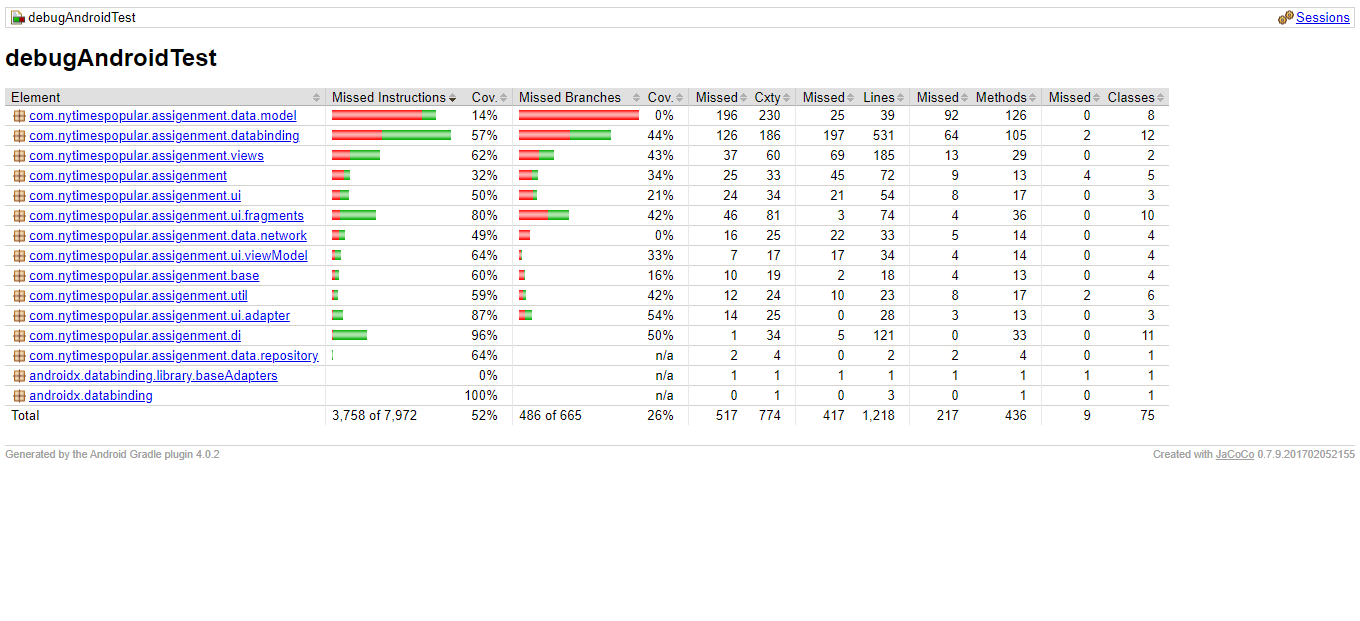
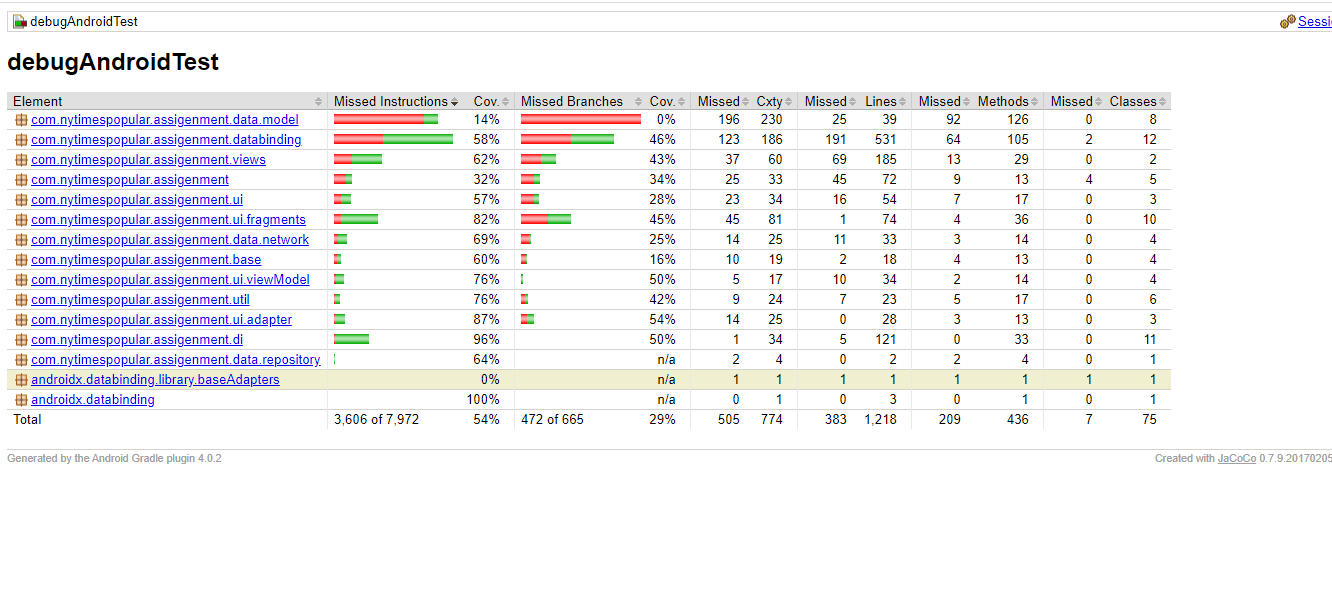
Commit: add one more test cases

Changed region(s): [[0.0, 0.0, 1.0, 0.7866], [0.8311, 0.6958, 1.0, 0.7866]]

diff --git a/app/src/androidTest/java/com/nytimespopular/assigenment/testutils/DataBindingIdlingResource.kt b/app/src/androidTest/java/com/nytimespopular/assigenment/testutils/DataBindingIdlingResource.kt
@@ -1,0 +1,136 @@
+package com.nytimespopular.assigenment.testutils
+
+import android.app.Activity
+import android.view.View
+import android.view.ViewGroup
+import androidx.databinding.DataBindingUtil
+import androidx.databinding.ViewDataBinding
+import androidx.fragment.app.FragmentActivity
+import androidx.recyclerview.widget.RecyclerView
+import androidx.test.espresso.IdlingResource
+import androidx.test.ext.junit.rules.ActivityScenarioRule
+import java.util.*
+import kotlin.collections.ArrayList
+
+/**
+ * An espresso idling resource implementation that reports idle status for all data binding
+ * layouts.
+ * <b/>
+ * Since this application only uses fragments, the resource only checks the fragments instead
+ * of the whole view tree.
+ */
+class DataBindingIdlingResource(
+    private val activityTestRule: ActivityScenarioRule<*>
+) : IdlingResource {
+    // list of registered callbacks
+    private val idlingCallbacks = mutableListOf<IdlingResource.ResourceCallback>()
+    // give it a unique id to workaround an espresso bug where you cannot register/unregister
+    // an idling resource w/ the same name.
+    private val id = UUID.randomUUID().toString()
+    // holds whether isIdle is called and the result was false. We track this to avoid calling
+    // onTransitionToIdle callbacks if Espresso never thought we were idle in the first place.
+    private var wasNotIdle = false
+
+    override fun getName() = "DataBinding $id"
+
+    override fun isIdleNow(): Boolean {
+        val idle = !getBindings().union(getActivtyBinding()).any { it.hasPendingBindings() }
+        @Suppress("LiftReturnOrAssignment")
+        if (idle) {
+            if (wasNotIdle) {
+                // notify observers to avoid espresso race detector
+                idlingCallbacks.forEach { it.onTransitionToIdle() }
+            }
+            wasNotIdle = false
+        } else {
+            wasNotIdle = true
+            // check next frame
+            activityTestRule.scenario.onActivity { it.findViewById<View>(android.R.id.content).postDelayed({
+                isIdleNow
+            }, 16) }
+        }
+        return idle
+    }
+
+
+    override fun registerIdleTransitionCallback(callback: IdlingResource.ResourceCallback) {
+        idlingCallbacks.add(callback)
+    }
+
+    /**
+     * Find all binding classes in all currently available fragments.
+     */
+    private fun getBindings(): List<ViewDataBinding> {
+        var activity : Activity?=null
+
+        activityTestRule.scenario.onActivity {
+             activity = it
+        }
+
+        return (activity as? FragmentActivity)
+            ?.supportFragmentManager
+            ?.fragments
+            ?.mapNotNull {
+                val childBindings = ArrayList<ViewDataBinding>()
+                if (it.view!=null){
+                val viewGroup = it.view as ViewGroup
+                DataBindingUtil.getBinding<ViewDataBinding>(viewGroup)
+                val childCount = viewGroup.childCount
+                for (i in 0 until childCount) {
+                    val child = viewGroup.getChildAt(i)
+                    if (child is RecyclerView) {
+                        for (recyclerViewChilds in 0 until child.childCount) {
+                            DataBindingUtil.getBinding<ViewDataBinding>(
+                                child.getChildAt(
+                                    recyclerViewChilds
+                                )
+                            )
+                                ?.let { binding ->
+                                    childBindings.add(binding)
+                                }
+                        }
+                    }
+                }
+                DataBindingUtil.getBinding<ViewDataBinding>(viewGroup)?.let { parentBinding ->
+                    childBindings.add(parentBinding)
+                }
+            }
+                childBindings.map { it }
+
+            }?.flatten() ?: emptyList()
+    }
+
+    private fun getActivtyBinding(): List<ViewDataBinding> {
+
+        var contentView:ViewGroup?=null
+
+        activityTestRule.scenario.onActivity {
+            contentView = it.window.decorView.findViewById(android.R.id.content) as ViewGroup
+        }
+
+
+
+        val childs = contentView?.childCount?:0
+        val childBindings = ArrayList<ViewDataBinding>(childs)
+        for (i in 0 until childs) {
+            val childAt = contentView?.getChildAt(i)
+            val childsOfView = (childAt as ViewGroup).childCount
+            for (j in 0 until childsOfView) {
+                val viewChild = childAt.getChildAt(j)
+                if (viewChild is RecyclerView) {
+                    for (k in 0 until viewChild.childCount) {
+                        DataBindingUtil.getBinding<ViewDataBinding>(viewChild.getChildAt(k))?.let {
+                            childBindings.add(it)
+                        }
+                    }
+                }
+            }
+            val binding = DataBindingUtil.getBinding<ViewDataBinding>(childAt)
+            if (binding != null) {
+                childBindings.add(binding)
+            }
+        }
+
+        return childBindings.map { it }
+    }
+}

diff --git a/app/src/androidTest/java/com/nytimespopular/assigenment/ExampleInstrumentedTest.kt b/app/src/androidTest/java/com/nytimespopular/assigenment/ExampleInstrumentedTest.kt
@@ -12,13 +12,12 @@ import androidx.test.espresso.ViewAction
 import androidx.test.espresso.action.ViewActions.click
 import androidx.test.espresso.assertion.ViewAssertions.matches
 import androidx.test.espresso.contrib.RecyclerViewActions
-import androidx.test.espresso.matcher.ViewMatchers
 import androidx.test.espresso.matcher.ViewMatchers.*
 import androidx.test.ext.junit.rules.ActivityScenarioRule
 import androidx.test.ext.junit.runners.AndroidJUnit4
-import androidx.test.platform.app.InstrumentationRegistry
 import androidx.test.platform.app.InstrumentationRegistry.getInstrumentation
 import com.nytimespopular.assigenment.data.network.Task
+import com.nytimespopular.assigenment.testutils.DataBindingIdlingResourceRule
 import com.nytimespopular.assigenment.ui.HomeActivity
 import com.nytimespopular.assigenment.ui.fragments.ArticleDetailFragment
 import com.nytimespopular.assigenment.ui.fragments.ArticlesListFragment
@@ -45,6 +44,9 @@ class ExampleInstrumentedTest : KoinTest{
     var activityRule: ActivityScenarioRule<HomeActivity> =
         ActivityScenarioRule(HomeActivity::class.java)
 
+    @Rule
+    @JvmField
+    val dataBindingIdlingResourceRule = DataBindingIdlingResourceRule(activityRule)
 
 
     fun withRecyclerView(recyclerViewId: Int): RecyclerViewMatcher {
@@ -53,8 +55,8 @@ class ExampleInstrumentedTest : KoinTest{
 
     @Before
     fun registerIdlingResource() {
-        IdlingRegistry.getInstance()
-            .register(CountingIdlingResourceSingleton.countingIdlingResource)
+//        IdlingRegistry.getInstance()
+//            .register(CountingIdlingResourceSingleton.countingIdlingResource)
         activityRule.scenario.onActivity {
             it.supportFragmentManager.beginTransaction().replace(
                 R.id.fragmentContainer, ArticlesListFragment.newInstance(true),
@@ -76,7 +78,7 @@ class ExampleInstrumentedTest : KoinTest{
     @Test
     fun useAppContext() {
         // Context of the app under test.
-        val appContext: Context = InstrumentationRegistry.getInstrumentation().targetContext
+        val appContext: Context = getInstrumentation().targetContext
         assertEquals(
             "com.nytimespopular.assigenment",
             appContext.packageName
@@ -117,7 +119,8 @@ class ExampleInstrumentedTest : KoinTest{
 
     @Test
     fun testRecyclerViewItemClick() {
-        Thread.sleep(1000)
+        onView(withId(R.id.rvArticleList)).check(matches(isDisplayed()))
+        Thread.sleep(5000)
         onView(withId(R.id.rvArticleList)).
         perform(RecyclerViewActions.actionOnItemAtPosition<RecyclerView.ViewHolder>
             (0, ClickOnButtonView()))
@@ -140,7 +143,7 @@ class ExampleInstrumentedTest : KoinTest{
         onView(withText("7 Days")).perform(click())
     }
 
-    fun changeFragment(){
+    private fun changeFragment(){
         IdlingRegistry.getInstance()
             .register(CountingIdlingResourceSingleton.countingIdlingResource)
         activityRule.scenario.onActivity {
@@ -174,8 +177,10 @@ class ExampleInstrumentedTest : KoinTest{
     fun setTextInTextView(value: String): ViewAction {
         return object : ViewAction {
             override fun getConstraints(): Matcher<View> {
-                return CoreMatchers.allOf(ViewMatchers.isDisplayed(), ViewMatchers.isAssignableFrom(
-                    TextView::class.java))
+                return CoreMatchers.allOf(
+                    isDisplayed(), isAssignableFrom(
+                    TextView::class.java)
+                )
             }
 
             override fun perform(uiController: UiController, view: View) {

diff --git a/app/src/androidTest/java/com/nytimespopular/assigenment/testutils/DataBindingIdlingResourceRule.kt b/app/src/androidTest/java/com/nytimespopular/assigenment/testutils/DataBindingIdlingResourceRule.kt
@@ -1,0 +1,26 @@
+package com.nytimespopular.assigenment.testutils
+
+import androidx.test.espresso.IdlingRegistry
+import androidx.test.ext.junit.rules.ActivityScenarioRule
+import org.junit.rules.TestWatcher
+import org.junit.runner.Description
+
+/**
+ * A JUnit rule that registers an idling resource for all fragment views that use data binding.
+ */
+class DataBindingIdlingResourceRule(
+    activityTestRule: ActivityScenarioRule<*>
+) : TestWatcher() {
+    private val idlingResource = DataBindingIdlingResource(activityTestRule)
+
+    override fun finished(description: Description?) {
+        IdlingRegistry.getInstance().unregister(idlingResource)
+        super.finished(description)
+    }
+
+    override fun starting(description: Description?) {
+        IdlingRegistry.getInstance().register(idlingResource)
+        super.starting(description)
+    }
+
+}
